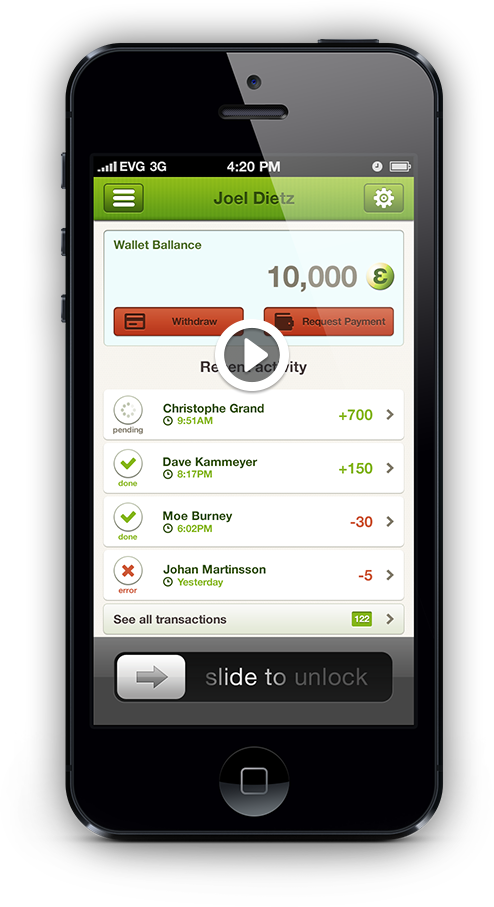
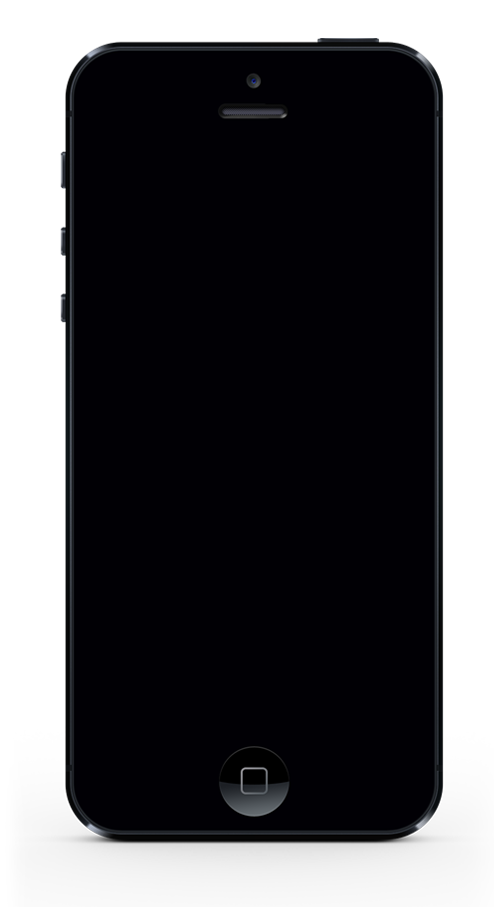
new updates from greg

diff --git a/index.html b/index.html
@@ -4,7 +4,7 @@
 <!--[if gt IE 8]><!--> <html class="no-js" lang="en"> <!--<![endif]-->
 <head>
 	<meta charset="utf-8">
-	<title>Evergreen | evr.gr</title>
+	<title>evergreen </title>
 	<meta name="description" content="">
 	<meta name="viewport" content="width=device-width, initial-scale=1.0">
 	<link rel="stylesheet" media="screen" href="css/bootstrap.min.css">
@@ -19,10 +19,10 @@
 		<div class="container">
 			<a href="#" class="logo"><img src="img/logo.png" alt="logo"></a>
 			<ul class="social-links clearfix">
-				<li class="fb"><a href="http://www.facebook.com/evergreenapp" target="_blank"><i>&nbsp;</i>facebook</a></li>
-				<li class="tw"><a href="http://twitter.com/evrgr" target="_blank"><i>&nbsp;</i>twitter</a></li>
-				<li class="tu"><a href="http://b.evr.gr" target="_blank"><i>&nbsp;</i>tumblr</a></li>
-				<li class="clearfix"><!--<a href="#myModal" role="button" data-toggle="modal">Login</a>--></li>
+				<li class="fb"><a href="#"><i>&nbsp;</i>facebook</a></li>
+				<li class="tw"><a href="#"><i>&nbsp;</i>twitter</a></li>
+				<li class="tu"><a href="#"><i>&nbsp;</i>tumblr</a></li>
+				<li class="clearfix"><a href="#myModal" role="button" data-toggle="modal">Login</a></li>
 			</ul>
 		</div>
 		<!-- / container -->
@@ -33,26 +33,28 @@
 		<div class="container">
 			<h1>We are building <strong>the earth</strong></h1>
 			<div class="row">
-				<div class="span12">
-					<p><strong><span>E</span></strong> vergreen provides a global currency powered by local communities, secured by real assets. We are transforming the world. </p>
+				<div class="span6">
+					<p><strong><span>E</span></strong> vergreen provides a digitalcurrency supported by real assets. It is an alternative to existing currencies in that it is globally accessible, provides a stable store of value, and supports the global</p>
 				</div>
 				<!-- span6 -->
-				<!--
-				 <div class="span6">
-					<p><strong><span>E</span></strong> vergreen provides a global currency powered by local communities, secured by real assets.</p>
+				<div class="span6">
+					<p>ecosystem. It will be the default currency of the rapidly growing collaborative consumption and crowd funding communities.</p>
 				</div>
-				-->
-				
+				<!-- span6 -->
 			</div>
 			<!-- row -->
 			<ul id="main-slider">
 				<li>
-					<a href="http://www.youtube.com/embed/NWgH2JWnVzs?autoplay=1" class="various fancybox.iframe iphone_black"><img src="img/pic_iphone_black.png"></a>
-					<p class="title">Watch how it works</p>
+					<a href="http://www.youtube.com/embed/NWgH2JWnVzs?autoplay=1&wmode=opaque" class="various fancybox.iframe iphone_black" title="What we do" data-fancybox-group="gallery">
+						<img src="img/pic_video1.jpg">
+					</a>
+					<p class="title">Watch who we are</p>
 				</li>
 				<li>
-					<a href="http://www.youtube.com/embed/NWgH2JWnVzs?autoplay=1" class="various fancybox.iframe iphone_black"><img src="img/pic_iphone_black.png"></a>
-					<p class="title">Watch how it works</p>
+					<a href="http://www.youtube.com/embed/Urfjyj4FnUc?autoplay=1&wmode=opaque" class="various fancybox.iframe iphone_black" title="Who we are" data-fancybox-group="gallery">
+						<img src="img/pic_video2.jpg">
+					</a>
+					<p class="title">Watch what we do</p>
 				</li>
 			</ul>
 		</div>
@@ -62,10 +64,10 @@
 	
 	<section id="download">
 		<div class="container">
-			<h2>Download <span>evergreen</span> on your iPhone or Android phone</h2>
+			<h2>Download <img src="img/evg-text.png"> on your iPhone or Android phone</h2>
 			<div class="row">
 				<div class="span4 clearfix">
-					<!--<a href="#" class="pull-right"><i>&nbsp;</i><p>download iPhone</p></a>-->
+					<a href="#" class="pull-right"><i>&nbsp;</i><p>download iPhone</p></a>
 				</div>
 				<!-- span4 -->
 				<div class="span4">
@@ -73,7 +75,7 @@
 				</div>
 				<!-- span4 -->
 				<div class="span4 clearfix">
-					<!--<a href="#" class="pull-left"><i>&nbsp;</i><p>download Android</p></a>-->
+					<a href="#" class="pull-left"><i>&nbsp;</i><p>download Android</p></a>
 				</div>
 				<!-- span4 -->
 			</div>
@@ -88,8 +90,8 @@
 			<div class="social-media">
 				<p>Join us:</p>
 				<ul class="clearfix">
-					<li class="fb"><a href="https://www.facebook.com/evergreenapp" target="_blank">facebook</a></li>
-					<li class="tw"><a href="http://twitter.com/evrgr" target="_blank">twitter</a></li>
+					<li class="fb"><a href="#">facebook</a></li>
+					<li class="tw"><a href="#">twitter</a></li>
 				</ul>
 			</div>
 			<!-- social-media -->

diff --git a/css/main.css b/css/main.css
@@ -329,16 +329,44 @@ h1 strong {
 
 .iphone_black,
 .iphone_black:focus {
+    display: block;
     position: absolute;
+    width: 329px;
+    height: 757px;
+    padding: 150px 76px 0 89px;
     bottom: -900px;
     left: 50%;
     margin-left: -247px;
     z-index: 9;
     outline: none;
+    background: url(../img/pic_iphone_black.png) no-repeat;
+    background-size: contain;
     -webkit-transition: all 0.5s ease-out; 
     -moz-transition: all 0.5s ease-out; 
     -o-transition: all 0.5s ease-out; 
     transition: all 0.5s ease-out; 
+}
+
+.iphone_black:after {
+    content: "";
+    display: block;
+    position: absolute;
+    width: 494px;
+    height: 907px;
+    top: 0;
+    left: 0;
+    z-index: 10;
+    background: url(../img/glare.png) no-repeat;
+    background-size: contain;
+    -webkit-transition: all 0.5s ease-out; 
+    -moz-transition: all 0.5s ease-out; 
+    -o-transition: all 0.5s ease-out; 
+    transition: all 0.5s ease-out; 
+}
+
+.iphone_black img {
+    width: 100%;
+    height: auto;
 }
 
 .inview .iphone_black {
@@ -634,8 +662,12 @@ h2 span {
     }
     .iphone_black,
     .inview .iphone_black {
-        width: 400px;
+        width: 267px;
         margin-left: -200px;
+        padding: 122px 61px 0 72px;
+    }
+    .iphone_black:after {
+        width: 400px;
     }
     .inview .title {
         margin: 135px 340px 0 0;
@@ -707,18 +739,22 @@ h2 span {
     }
     .bx-prev, 
     .bx-next {
-        top: 14px;
+        top: 114px;
     }
     .iphone_black,
     .inview .iphone_black {
-        width: 300px;
+        width: 201px;
         margin-left: -150px;
+        padding: 91px 45px 0 54px;
+    }
+    .iphone_black:after {
+        width: 300px;
     }
     .inview .iphone_black {
-        bottom: -358px;
+        bottom: -558px;
     }
     .inview .iphone_black:hover {
-        bottom: -300px;
+        bottom: -500px;
     }
 }
 
@@ -801,7 +837,7 @@ h2 span {
 }
 
 #fancybox-loading, .fancybox-close, .fancybox-prev span, .fancybox-next span {
-    background-image: url('fancybox_sprite.png');
+    background-image: url('../img/fancybox_sprite.png');
 }
 
 #fancybox-loading {
@@ -819,7 +855,7 @@ h2 span {
 #fancybox-loading div {
     width: 44px;
     height: 44px;
-    background: url('fancybox_loading.gif') center center no-repeat;
+    background: url('../img/fancybox_loading.gif') center center no-repeat;
 }
 
 .fancybox-close {
@@ -839,7 +875,7 @@ h2 span {
     height: 100%;
     cursor: pointer;
     text-decoration: none;
-    background: transparent url('blank.gif'); /* helps IE */
+    background: transparent url('../img/blank.gif'); /* helps IE */
     -webkit-tap-highlight-color: rgba(0,0,0,0);
     z-index: 8040;
 }
@@ -909,7 +945,7 @@ h2 span {
     overflow: hidden;
     display: none;
     z-index: 8010;
-    background: url('fancybox_overlay.png');
+    background: transparent;
 }
 
 .fancybox-overlay-fixed {
@@ -988,12 +1024,12 @@ h2 span {
        only screen and (min-device-pixel-ratio: 1.5){
 
     #fancybox-loading, .fancybox-close, .fancybox-prev span, .fancybox-next span {
-        background-image: url('fancybox_sprite@2x.png');
+        background-image: url('../img/fancybox_sprite@2x.png');
         background-size: 44px 152px; /*The size of the normal image, half the size of the hi-res image*/
     }
 
     #fancybox-loading div {
-        background-image: url('fancybox_loading@2x.gif');
+        background-image: url('../img/fancybox_loading@2x.gif');
         background-size: 24px 24px; /*The size of the normal image, half the size of the hi-res image*/
     }
 }

diff --git a/js/main.js b/js/main.js
@@ -10,6 +10,7 @@
 			App.mainSlider();
 			App.scrollAnimations();
 			App.popUp();
+			App.toolTip();
 		},
 
 		mainSlider: function() {
@@ -46,6 +47,31 @@
 					closeEffect	: 'none',
 					padding		: 0
 				});
+			});
+		},
+
+		toolTip: function() {
+			$('.bx-prev').tooltip({
+				title: function() {
+					if($('#main-slider li:visible').prev('li').length === 0) {
+						var name = $("#main-slider li:last-child").find('a').attr('title');
+						return name;
+					} else {
+						var name = $('#main-slider li:visible').prev('li').find('a').attr('title');
+						return name;
+					}
+				}
+			});
+			$('.bx-next').tooltip({
+				title: function() {
+					if($('#main-slider li:visible').next('li').length === 0) {
+						var name = $("#main-slider li:first-child").find('a').attr('title');
+						return name;
+					} else {
+						var name = $('#main-slider li:visible').next('li').find('a').attr('title');
+						return name;
+					}
+				}
 			});
 		}
 	}
